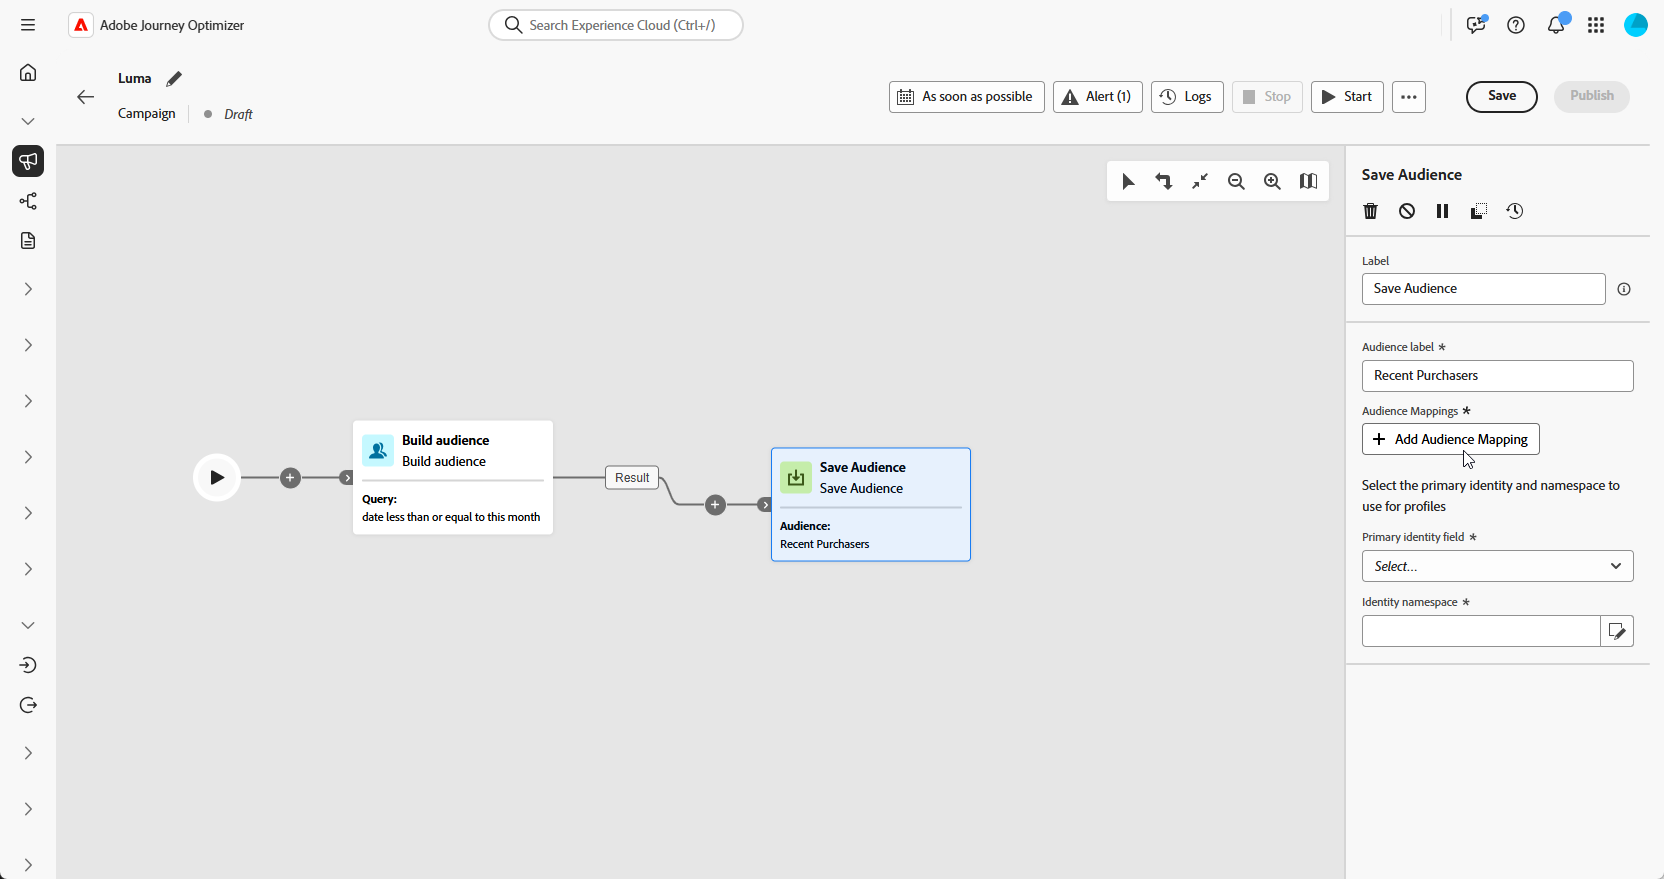
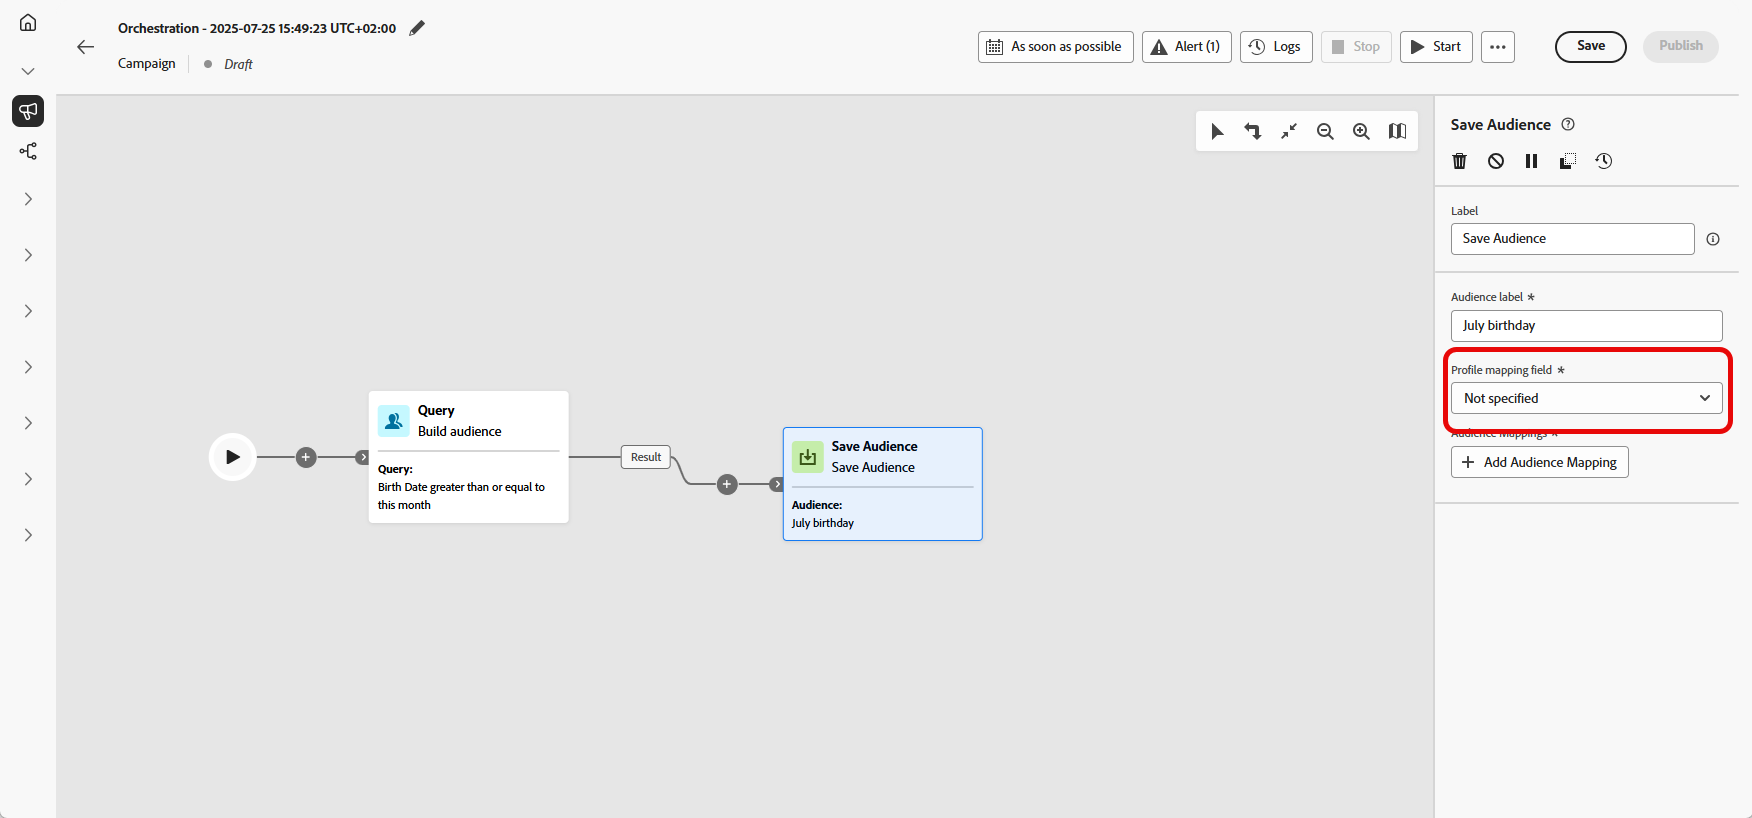
Update save audience OC

diff --git a/help/using/orchestrated/activities/save-audience.md b/help/using/orchestrated/activities/save-audience.md
@@ -48,11 +48,13 @@ Follow these steps to configure the **[!UICONTROL Save audience]** activity:
 
 1. Enter a **[!UICONTROL Audience label]** that will identify the saved audience.
 
-1. Click **[!UICONTROL Add audience attribute]** to define how the audience data is structured and stored for future reuse.
+1. Choose a **[!UICONTROL Profile mapping field ]** from your Campaign Targeting dimension.
+
+    ➡ [Follow the steps detailed in this page to create your Campaign Targeting dimension](../target-dimension.md)
 
     ![](../assets/save-audience-1.png)
 
-1. Then, select the appropriate **[!UICONTROL Primary identity field]** and **[!UICONTROL Identity namespace]** to ensure accurate profile resolution.
+1. Click **[!UICONTROL Add audience mappings]** if you want to associate the saved audience with additional identity fields.
 
     ![](../assets/save-audience-2.png)
 
@@ -60,10 +62,8 @@ Follow these steps to configure the **[!UICONTROL Save audience]** activity:
 
 The content of the saved audience is then available in the detail view of the audience, which can be accessed from the **[!UICONTROL Audiences]** menu.
 
-![](../assets/save-audience-3.png)
-
 ## Example {#save-audience-example}
 
-The following example demonstrates how to create a simple audience using targeting. A query identifies all profiles who made a purchase within the past 30 days. The **[!UICONTROL Save audience]** activity then captures these profiles to create a reusable audience of recent purchasers.
+The following example demonstrates how to create a simple audience using targeting. A query identifies all recipients who booked a trip in the last 30 days by filtering this population within your orchestrated campaign. By choosing **Recipients - CRMID** as the **Targeting dimension**, the audience targets each individual booking event rather than just the recipient as a whole. The **[!UICONTROL Save audience]** activity then captures these profiles to create a reusable audience of recent purchasers.
 
-![](../assets/save-audience-4.png)
+![](../assets/save-audience-3.png)

diff --git a/help/using/orchestrated/target-dimension.md b/help/using/orchestrated/target-dimension.md
@@ -102,4 +102,4 @@ After setting up your **[!UICONTROL Target Dimension]**, you need to configure y
 
 1. Once configured, click **[!UICONTROL Submit]**.
 
-Your channel is now ready to use with Orchestrated Campaigns, and messages will be delivered according to the selected target dimension.
+Your channel is now ready to use with **Orchestrated Campaigns**, and messages will be delivered according to the selected target dimension.
